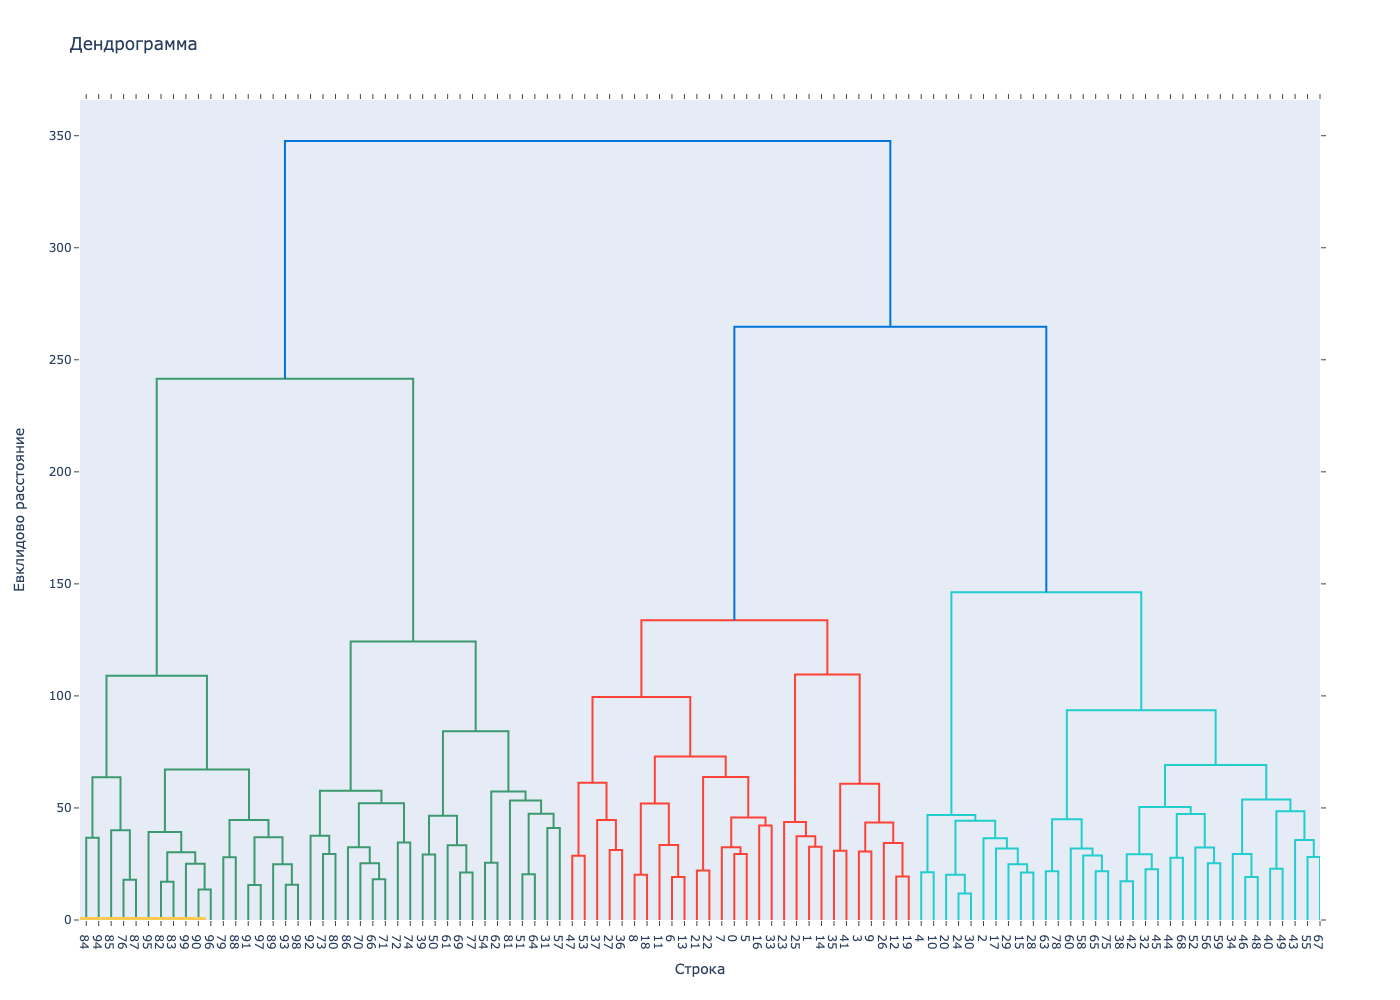
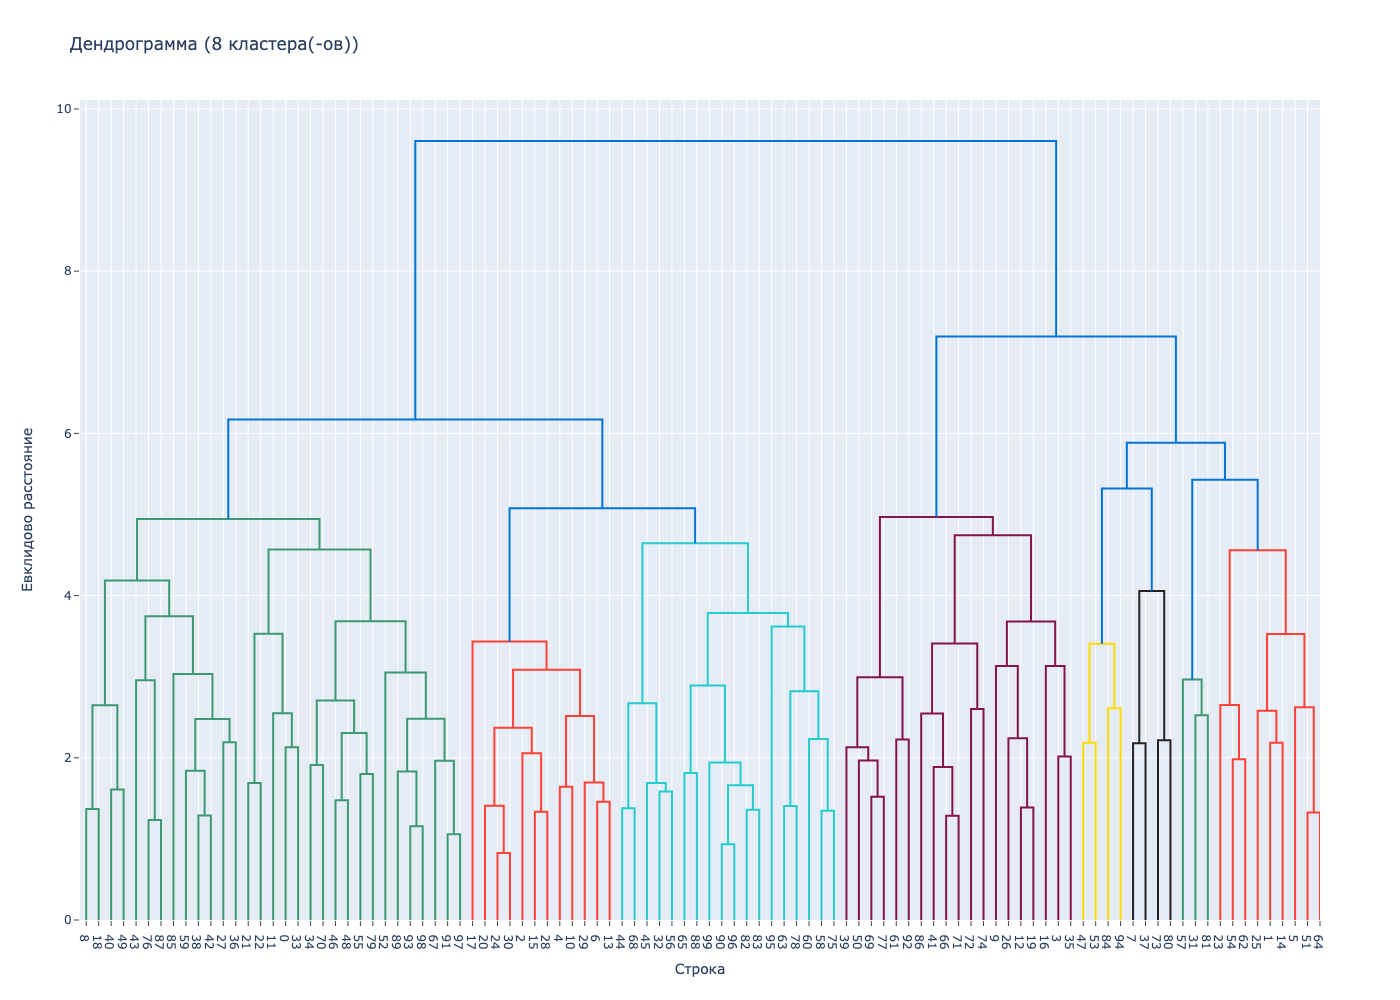
Fixed cluster analysis

diff --git a/SmartMedTelegram/src/cluster_analysis/functions_cluster.py b/SmartMedTelegram/src/cluster_analysis/functions_cluster.py
@@ -97,9 +97,9 @@ def handle_cluster_method(bot, call, command):
         bot.send_message(
             chat_id=chat_id,
             text=f"На основе Ваших данных был построен график Метод локтя для определения "
-            f"оптимального количества кластеров по данным.\n\n"
-            f"Рекомендованное количество кластеров – {optimal_clusters}.\n\n"
-            "Вы можете оставить рекомендованное количество кластеров, либо выбрать количество кластеров самостоятельно.",
+                 f"оптимального количества кластеров по данным.\n\n"
+                 f"Рекомендованное количество кластеров – {optimal_clusters}.\n\n"
+                 "Вы можете оставить рекомендованное количество кластеров, либо выбрать количество кластеров самостоятельно.",
             reply_markup=keyboard,
         )
 
@@ -135,7 +135,8 @@ def handle_pagination_columns_cluster(bot, call, command) -> None:
             page -= 1
 
         edit_column_selection_message(
-            bot, call.message.chat.id, call.message.message_id, columns, page, command
+            bot, call.message.chat.id, call.message.message_id, columns, page,
+            command
         )
 
     elif command.startswith("hierarchical"):
@@ -146,11 +147,13 @@ def handle_pagination_columns_cluster(bot, call, command) -> None:
             page -= 1
 
         edit_column_selection_message(
-            bot, call.message.chat.id, call.message.message_id, columns, page, command
+            bot, call.message.chat.id, call.message.message_id, columns, page,
+            command
         )
 
 
-def edit_column_selection_message(bot, chat_id, message_id, columns, page, command):
+def edit_column_selection_message(bot, chat_id, message_id, columns, page,
+                                  command):
     """
     Редактирует сообщение для выбора столбца для построения ящика с усами.
 
@@ -174,7 +177,8 @@ def edit_column_selection_message(bot, chat_id, message_id, columns, page, comma
     )
 
 
-def generate_column_keyboard(columns: list, page: int, command) -> InlineKeyboardMarkup:
+def generate_column_keyboard(columns: list, page: int,
+                             command) -> InlineKeyboardMarkup:
     """
     Создает клавиатуру с названиями колонок для пагинации.
 
@@ -207,7 +211,7 @@ def generate_column_keyboard(columns: list, page: int, command) -> InlineKeyboar
 
 
 def add_pagination_buttons(
-    keyboard: InlineKeyboardMarkup, columns: list, page: int, prefix
+        keyboard: InlineKeyboardMarkup, columns: list, page: int, prefix
 ) -> None:
     """
     Добавляет кнопки пагинации на клавиатуру.
@@ -221,12 +225,14 @@ def add_pagination_buttons(
         None
     """
     prev_button = (
-        InlineKeyboardButton("Назад", callback_data=f"{prefix}cluster_prev_{page}")
+        InlineKeyboardButton("Назад",
+                             callback_data=f"{prefix}cluster_prev_{page}")
         if page > 0
         else None
     )
     next_button = (
-        InlineKeyboardButton("Далее", callback_data=f"{prefix}cluster_next_{page + 1}")
+        InlineKeyboardButton("Далее",
+                             callback_data=f"{prefix}cluster_next_{page + 1}")
         if (page + 1) * 4 < len(columns)
         else None
     )
@@ -271,8 +277,8 @@ def handle_cluster_numbers(bot, call, command):
         bot.send_message(
             chat_id=call.from_user.id,
             text="По заданному количеству кластеров с помощью Метода k-средних"
-            " был построен точечный график,"
-            " а также создана таблица распределения элементов по кластерам.",
+                 " был построен точечный график,"
+                 " а также создана таблица распределения элементов по кластерам.",
         )
 
         file_cur = open(png_file_path, "rb")
@@ -295,18 +301,46 @@ def handle_hierarchical(bot, call):
     df = filter_columns_with_more_than_2_unique_values(df)
 
     module = ClusterModule(df, call.from_user.id)
-    module.plot_dendrogram()
+    optimal_clusters = module.elbow_method_and_optimal_clusters(max_clusters=10)
+    module.plot_dendrogram(optimal_clusters)
+
+    chat_id = call.from_user.id
+
+    png_file_path = f"{MEDIA_PATH}/{DATA_PATH}/{CLUSTER_ANALYSIS}/{HIERARCHICAL}/hierarchical_{chat_id}.png"
+
+    columns = [i + 1 for i in range(10)]
+
+    keyboard = generate_column_keyboard(columns, 0, "hierarchical")
+
+    if os.path.isfile(png_file_path):
+        file_cur = open(png_file_path, "rb")
+        bot.send_photo(chat_id=chat_id, photo=file_cur)
+
+        bot.send_message(
+            chat_id=call.from_user.id,
+            text="По Вашим данным с помощью метода Иерархической кластеризации"
+                 " была построена дендрограмма. Вы можете поменять количество кластеров:",
+            reply_markup=keyboard
+        )
+
+
+def handle_hierarchical_cluster_numbers(bot, call, command):
+    n_clusters = int(command.replace("hierarchical_cluster_", ""))
+    df = get_user_file_df(
+        f"{MEDIA_PATH}/{DATA_PATH}/{USER_DATA_PATH}",
+        call.from_user.id,
+    )
+
+    df = filter_columns_with_more_than_2_unique_values(df)
+
+    module = ClusterModule(df, call.from_user.id)
+
+    module.plot_dendrogram(n_clusters)
 
     chat_id = call.from_user.id
 
     png_file_path = f"{MEDIA_PATH}/{DATA_PATH}/{CLUSTER_ANALYSIS}/{HIERARCHICAL}/hierarchical_{chat_id}.png"
 
     if os.path.isfile(png_file_path):
-        bot.send_message(
-            chat_id=call.from_user.id,
-            text="По Вашим данным с помощью метода Иерархической кластеризации"
-            " была построена дендрограмма.",
-        )
-
         file_cur = open(png_file_path, "rb")
         bot.send_photo(chat_id=chat_id, photo=file_cur)

diff --git a/SmartMedTelegram/src/cluster_analysis/ClusterModule.py b/SmartMedTelegram/src/cluster_analysis/ClusterModule.py
@@ -3,7 +3,7 @@ import numpy as np
 from matplotlib import pyplot as plt
 from matplotlib import colors as mcolors
 import plotly.graph_objects as go
-from scipy.cluster._hierarchy import linkage
+from scipy.cluster.hierarchy import linkage
 from sklearn.cluster import KMeans, AgglomerativeClustering
 from scipy.cluster.hierarchy import dendrogram, fcluster
 import plotly.figure_factory as ff
@@ -36,7 +36,7 @@ class ClusterModule:
         inertia_values = []
 
         for n_clusters in range(1, max_clusters + 1):
-            kmeans = KMeans(n_clusters=n_clusters)
+            kmeans = KMeans(n_clusters=n_clusters, n_init="warn")
             kmeans.fit(self.df)
             inertia_values.append(kmeans.inertia_)
 
@@ -132,91 +132,56 @@ class ClusterModule:
         plt.close()
 
     def plot_dendrogram(self, n_clusters=1):
-        data = self.df.to_numpy()
-        dists = np.zeros((data.shape[0] * (data.shape[0] - 1)) // 2)
+        df = get_numeric_df(self.df)
+        df = (df - df.mean()) / df.std()
+        x = list(df.values.tolist())
 
-        k = 0
-        for i in range(data.shape[0]):
-            for j in range(i + 1, data.shape[0]):
-                dists[k] = np.linalg.norm(data[i] - data[j])
-                k += 1
+        model = AgglomerativeClustering(n_clusters=n_clusters,
+                                        metric="euclidean",
+                                        linkage="complete").fit(x)
 
-        linked = linkage(dists, n=data.shape[0], method=5)
+        labs = model.labels_
+        lst = []
+        s = [i for i in range(n_clusters)]
+        for i in s:
+            l = []
+            for j in range(len(labs)):
+                if labs[j] == i:
+                    l.append(j)
+            lst.append(l)
+        clusters2 = []
+        for i in lst:
+            l = ""
+            for j in range(len(i)):
+                l += str(i[j]) + " "
+            clusters2.append(l)
+        num = []
+        for i in lst:
+            num.append(len(i))
+        d = {"Кластер": pd.Series(clusters2,
+                                  index=[i for i in range(n_clusters)]),
+             "Число элементов в кластере": pd.Series(num, index=[i for i in
+                                                                 range(
+                                                                     n_clusters)])}
+        df1 = pd.DataFrame(d)
 
-        cluster_labels = fcluster(linked, n_clusters, criterion="maxclust")
-
-        fig = ff.create_dendrogram(
-            data,
-            orientation="bottom",
-            labels=self.df.index,
-            linkagefun=lambda x: linked,
-        )
+        di = sorted(
+            linkage(x, method="complete", metric="euclidean",
+                    optimal_ordering=False)[:, 2])
+        fig = ff.create_dendrogram(df,
+                                   linkagefun=lambda ci: linkage(df, "complete",
+                                                                 metric="euclidean"),
+                                   color_threshold=di[-n_clusters + 1])
         fig.update_layout(
-            title=f"Дендрограмма",
+            title=f"Дендрограмма ({n_clusters} кластера(-ов))",
             xaxis_title="Строка",
             yaxis_title="Евклидово расстояние",
         )
-
-        for cluster_num in range(1, n_clusters + 1):
-            cluster_points = self.df.index[cluster_labels == cluster_num]
-            fig.add_trace(
-                go.Scatter(
-                    x=cluster_points,
-                    y=np.zeros(len(cluster_points)),
-                    mode="markers",
-                    name=f"Кластер {cluster_num}",
-                )
-            )
-
         fig.update_layout(height=1000, width=1400)
-        fig.update_xaxes(showticklabels=True)
+        fig.update_xaxes(mirror=False, showgrid=True, showline=False,
+                         showticklabels=True)
+        fig.update_yaxes(mirror=False, showgrid=True, showline=True)
 
         fig.write_image(
             f"{MEDIA_PATH}/{DATA_PATH}/{CLUSTER_ANALYSIS}/{HIERARCHICAL}/hierarchical_{self.chat_id}.png"
         )
-
-        # df = self.pp.get_numeric_df(self.settings['data'])
-        # df = (df - df.mean()) / df.std()
-        # x = list(df.values.tolist())
-        #
-        # def update_output_div(n, met, meth):
-        #     n = int(n)
-        #
-        #     model = AgglomerativeClustering(n_clusters=n, affinity=met,
-        #                                     linkage=meth).fit(x)
-        #     labs = model.labels_
-        #     lst = []
-        #     s = [i for i in range(n)]
-        #     for i in s:
-        #         l = []
-        #         for j in range(len(labs)):
-        #             if labs[j] == i:
-        #                 l.append(j)
-        #         lst.append(l)
-        #     clusters2 = []
-        #     for i in lst:
-        #         l = ""
-        #         for j in range(len(i)):
-        #             l += str(i[j]) + " "
-        #         clusters2.append(l)
-        #     num = []
-        #     for i in lst:
-        #         num.append(len(i))
-        #     d = {"Кластер": pd.Series(clusters2, index=[i for i in range(n)]),
-        #          "Число элементов в кластере": pd.Series(num, index=[i for i in
-        #                                                              range(n)])}
-        #     df1 = pd.DataFrame(d)
-        #
-        #     di = sorted(
-        #         linkage(x, method=meth, metric=met, optimal_ordering=False)[:,
-        #         2])
-        #
-        #     fig = ff.create_dendrogram(df,
-        #                                linkagefun=lambda ci: linkage(df, meth,
-        #                                                              metric=met),
-        #                                color_threshold=di[-n + 1])
-        #     fig.update_layout(autosize=True, hovermode='closest')
-        #     fig.update_xaxes(mirror=False, showgrid=True, showline=False,
-        #                      showticklabels=False)
-        #     fig.update_yaxes(mirror=False, showgrid=True, showline=True)
-        #

diff --git a/SmartMedTelegram/src/handler.py b/SmartMedTelegram/src/handler.py
@@ -5,7 +5,7 @@ from cluster_analysis.functions_cluster import (
     handle_choose_number_of_clusters,
     handle_pagination_columns_cluster,
     handle_cluster_numbers,
-    handle_hierarchical,
+    handle_hierarchical, handle_hierarchical_cluster_numbers,
 )
 from comparative_analysis.functions_comparative import (
     handle_example_comparative_analysis,
@@ -96,6 +96,9 @@ def callback_query_handler(bot, call):
 
         elif command.startswith("cluster_"):
             handle_cluster_numbers(bot, call, command)
+
+        elif command.startswith("hierarchical_cluster_"):
+            handle_hierarchical_cluster_numbers(bot, call, command)
 
         elif command.startswith("continuous_column_"):
             handle_categorical_columns_comparative(bot, call, command)
